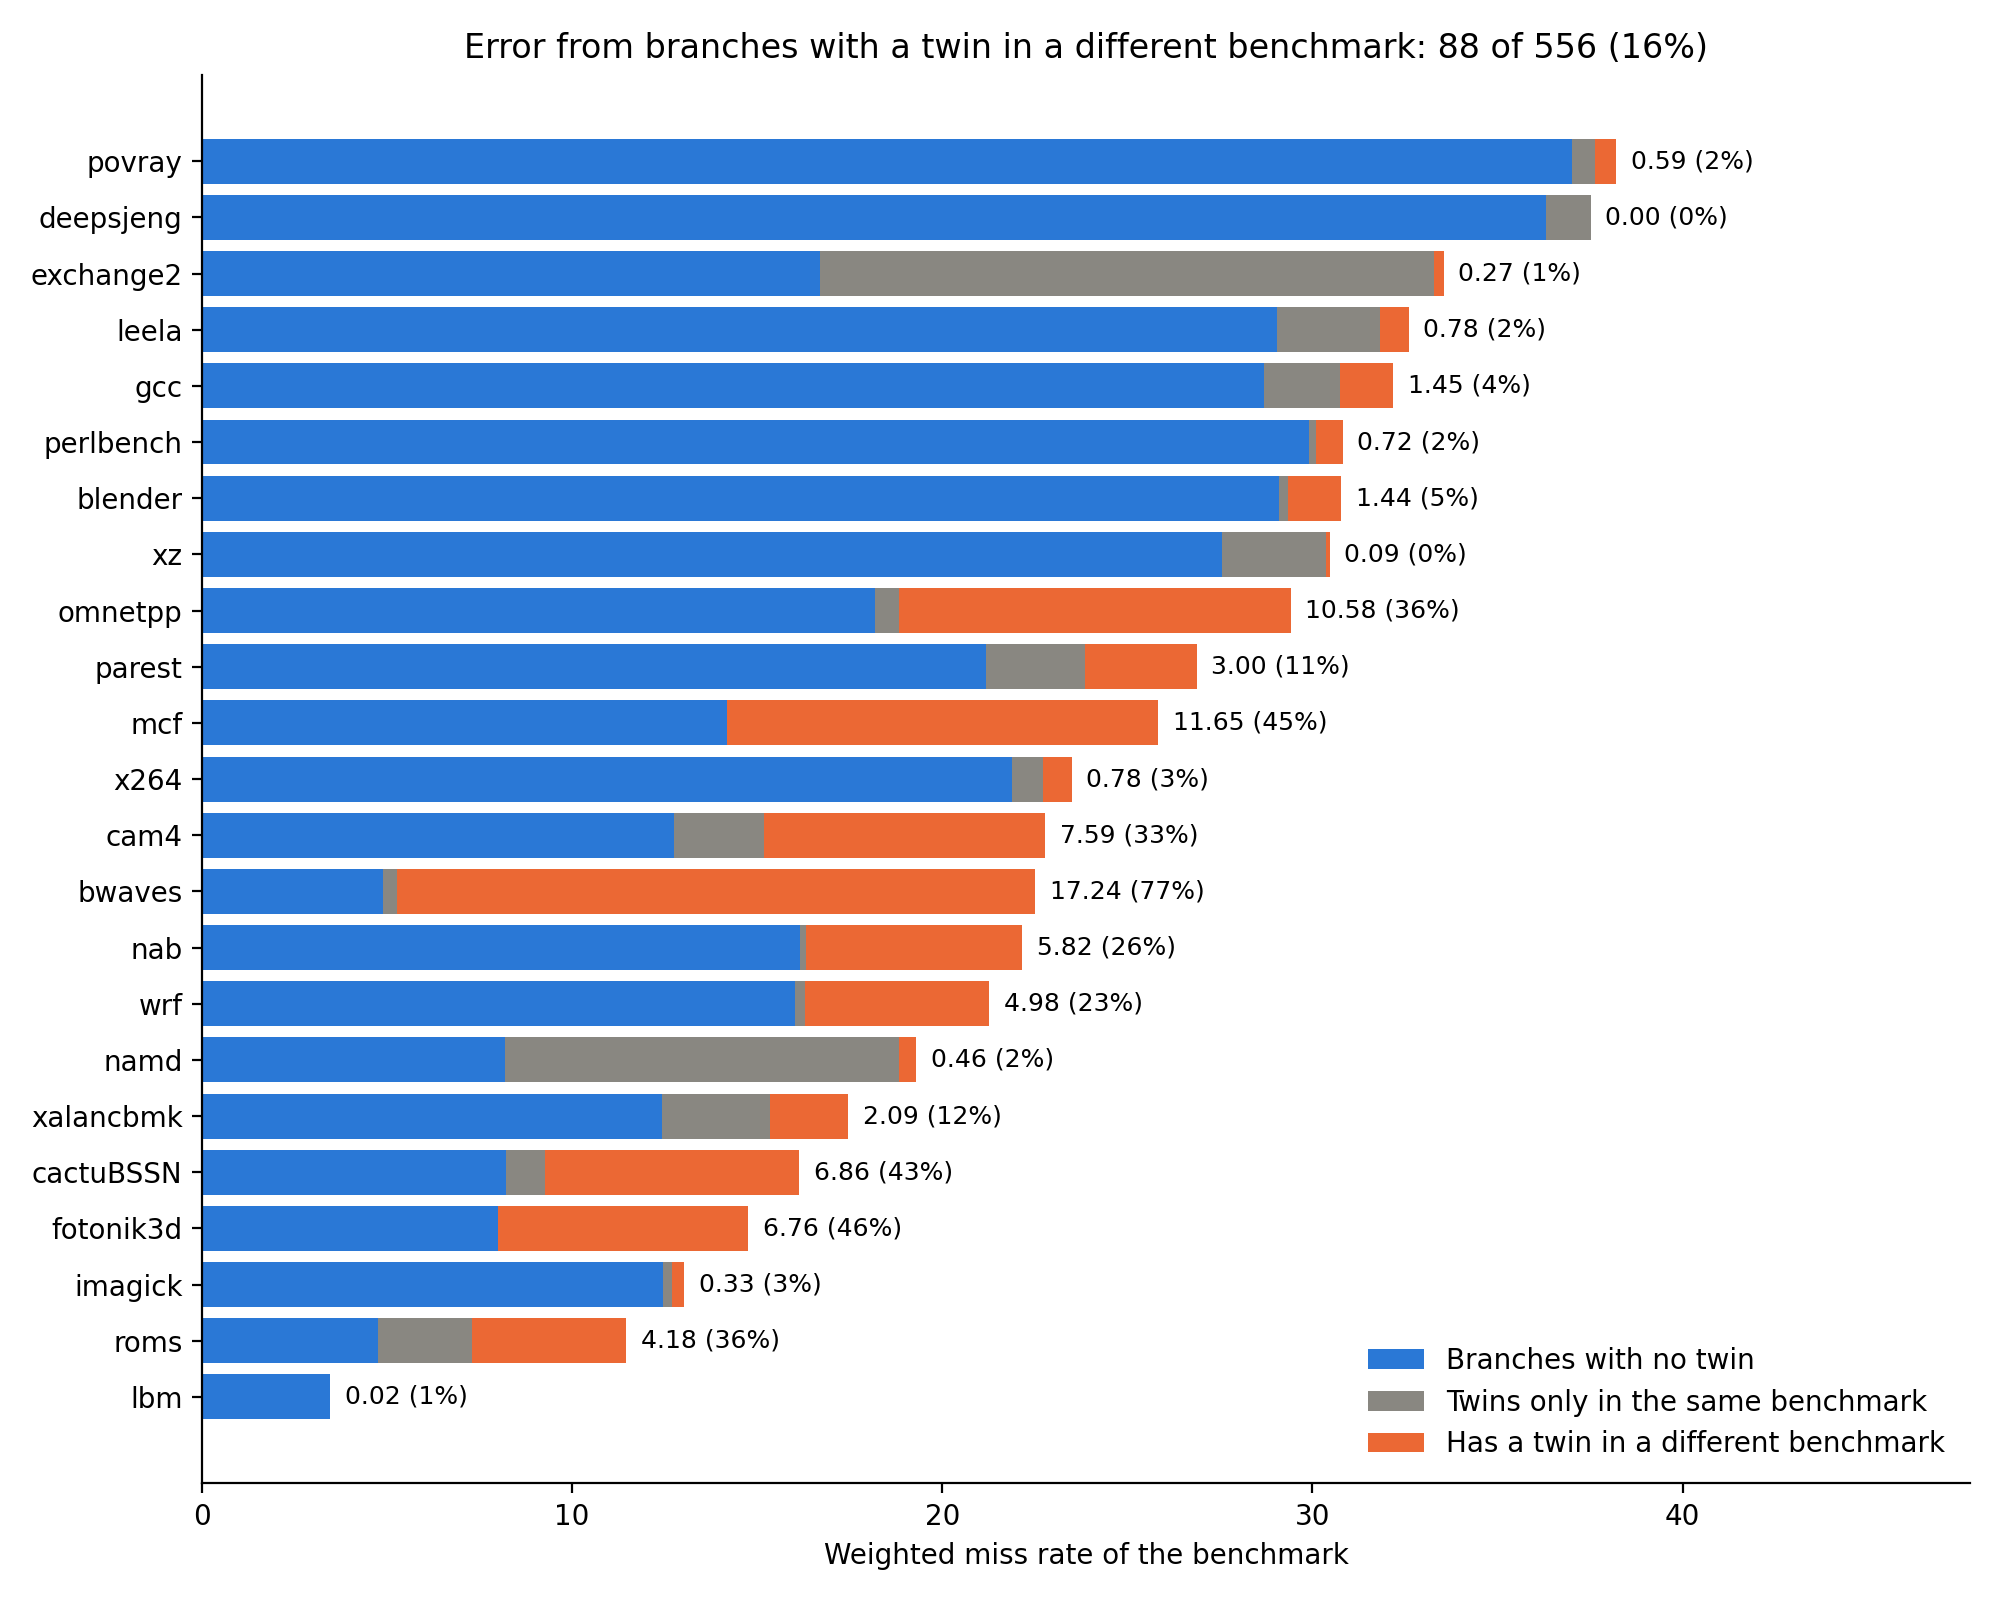
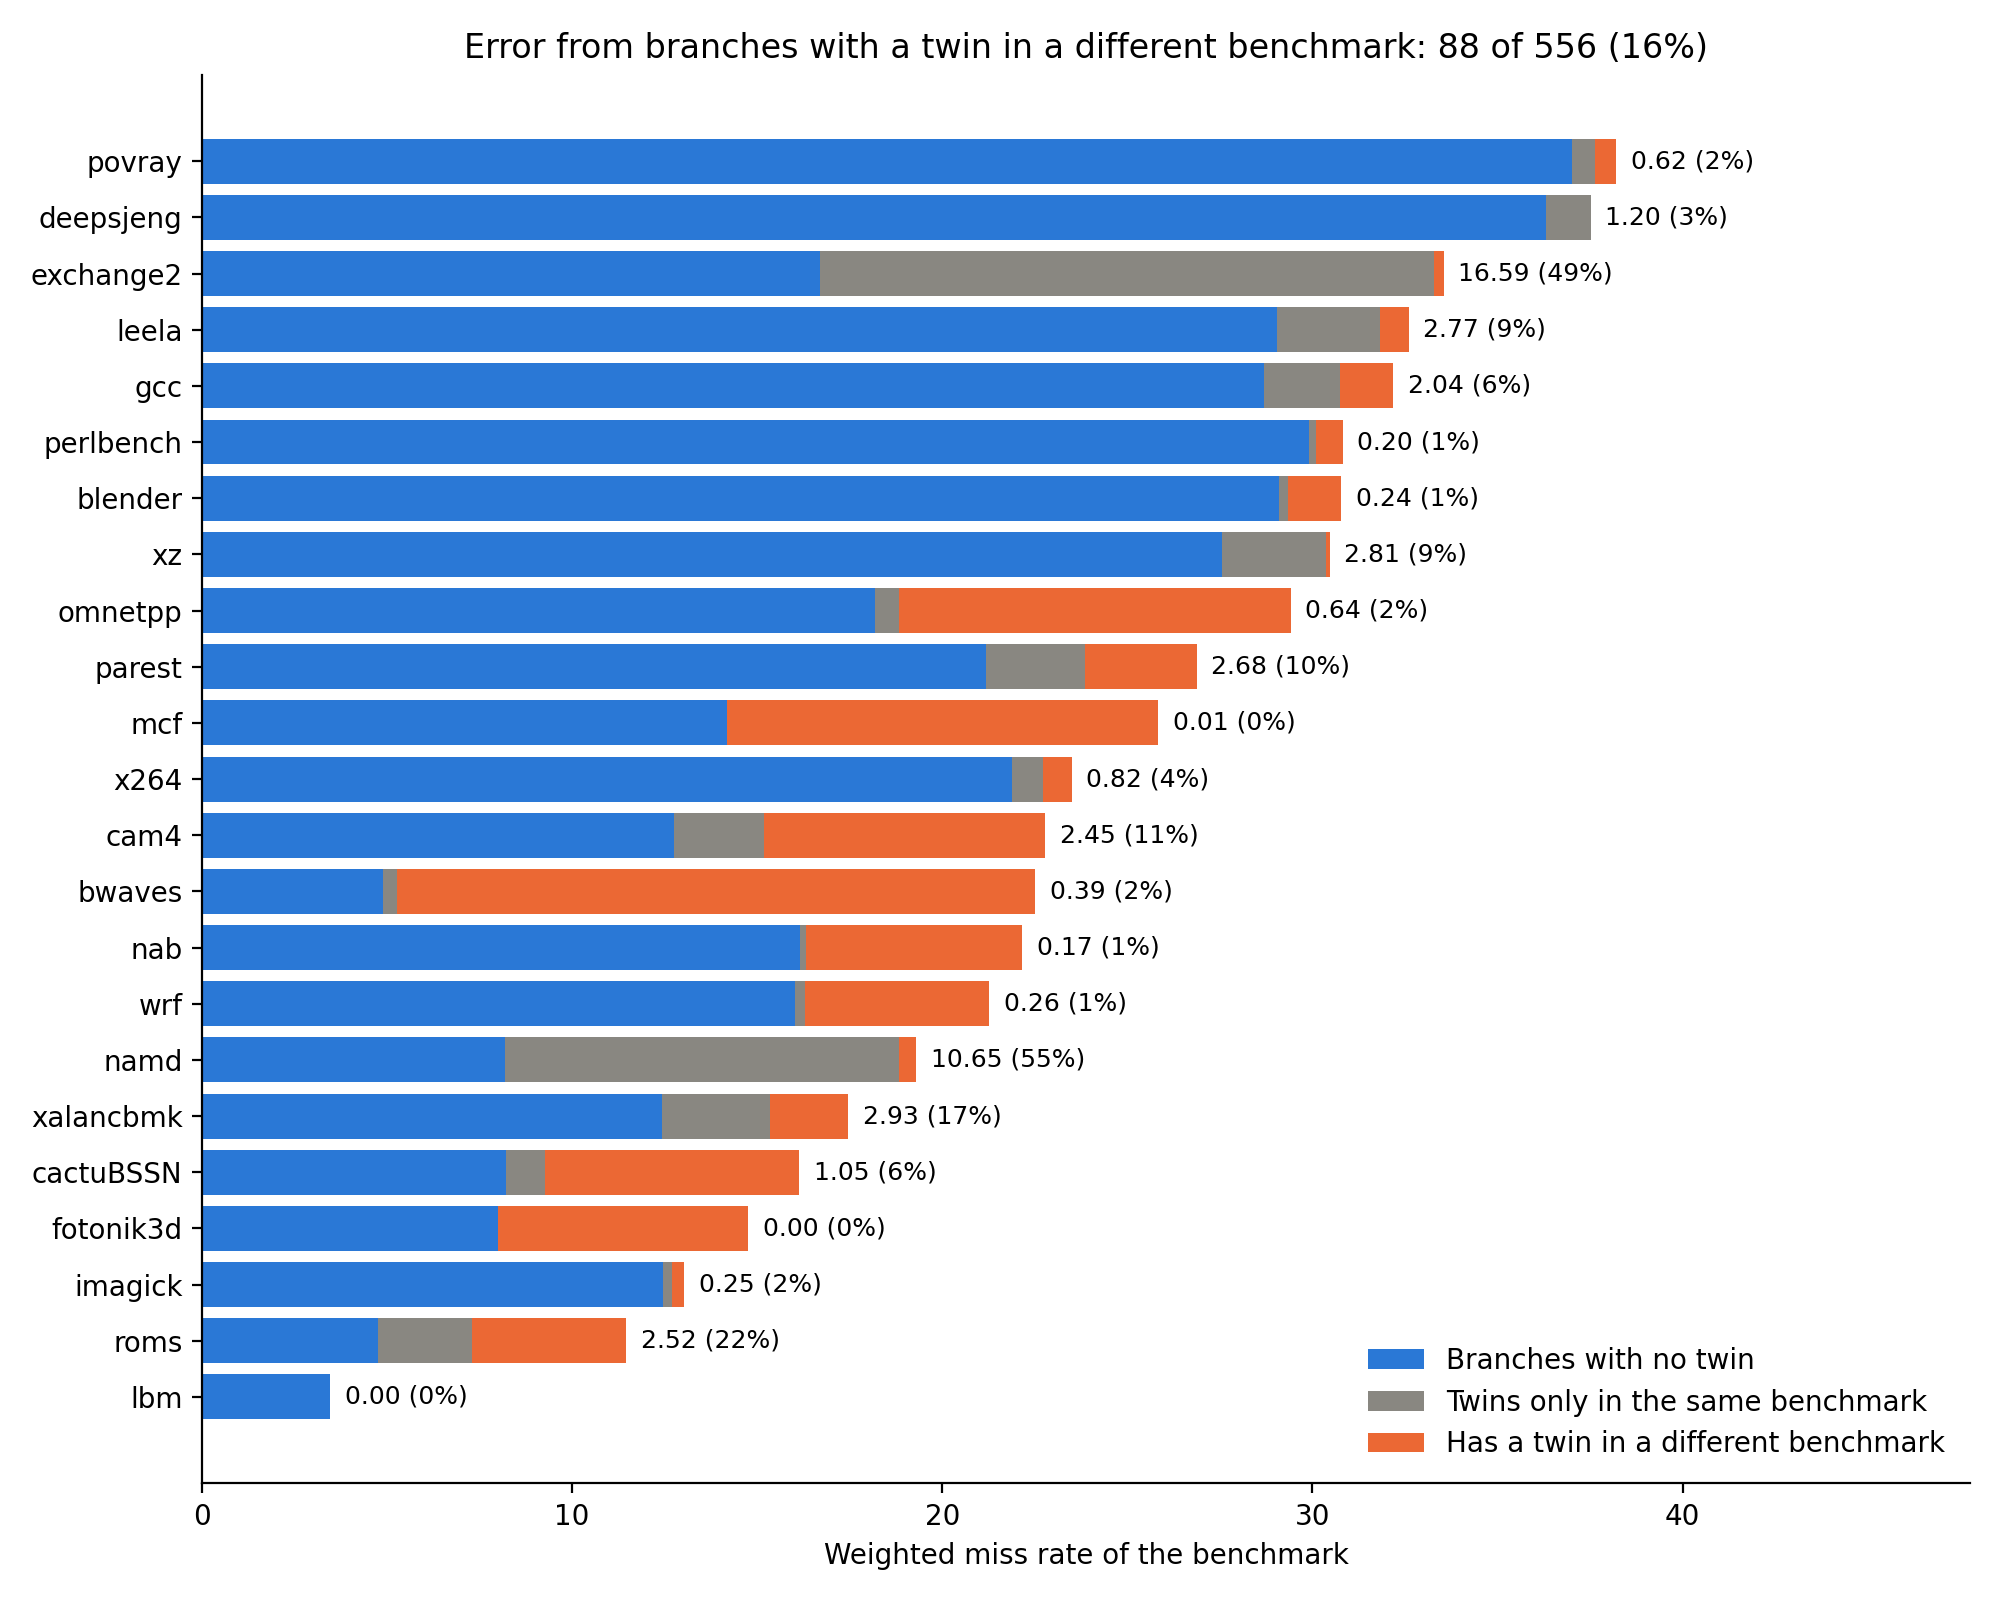
Fixed the previous commit about graph

diff --git a/branch_analysis/scripts/group_graphs.py b/branch_analysis/scripts/group_graphs.py
@@ -162,7 +162,7 @@ def graph_total_vs_other_benchmarks(groups):
     ax.barh(y, same_only[order], left=no_twin[order], color=GRAY, label="Twins only in the same benchmark")
     ax.barh(y, cross[order], left=(no_twin + same_only)[order], color=ORANGE, label="Has a twin in a different benchmark")
     for i, bench in enumerate(order):
-        ax.text(totals[bench] + 0.4, i, f"{cross[bench]:.2f} ({100 * cross[bench] / totals[bench]:.0f}%)", va="center", fontsize=9)
+        ax.text(totals[bench] + 0.4, i, f"{same_only[bench]:.2f} ({100 * same_only[bench] / totals[bench]:.0f}%)", va="center", fontsize=9)
     ax.set_yticks(y)
     ax.set_yticklabels([b.split(".", 1)[1].replace("_r", "") for b in order])
     ax.set_xlabel("Weighted miss rate of the benchmark")
